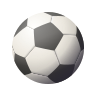
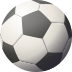
Cropped ball texture, added hitting ball on click but now it only gives it vertical velocity

diff --git a/src/main/resources/static/js/game.js b/src/main/resources/static/js/game.js
@@ -1,53 +1,79 @@
 const canvas = document.getElementById("GameCanvas");
 const ctx = canvas.getContext("2d");
-let ballX = 227;
-let ballY = 200;
-let gravity = 0.1;
-let ballVy = 0;
-let ballVx = 2;
-let bounceFactor = 0.9;
 
-canvas.width = 550;
-canvas.height = 900;
-
+canvas.width = parseInt(getComputedStyle(canvas).width);
+canvas.height = parseInt(getComputedStyle(canvas).height);
 
 const img = new Image();
 img.src = "../assets/ball.png";
 
-img.onload = function() {
-    animate();
+let ballSize = canvas.height / 8;
+let ballRotation = 0;
+let ballX = canvas.width / 2 - ballSize / 2;
+let ballY = canvas.height / 2 - ballSize / 2;
+let gravity = 0.2;
+let ballVy = 0;
+let ballVx = 0;
+let bounceFactor = 0.9;
+let fractionFactor = 0.98;
+let hitFactor = bounceFactor * gravity * 100;
+let isPlaying = false;
+
+img.onload = function () {
+    ctx.drawImage(img, ballX, ballY, ballSize, ballSize);
 };
 
+
+canvas.addEventListener("mousedown", function (event) {
+    if (!isPlaying) {
+        isPlaying = true;
+        animate();
+    }
+    checkIfBallWasClicked(event);
+});
+
 function animate() {
+    if (!isPlaying) return;
     calculatePosition();
     ctx.clearRect(0, 0, canvas.width, canvas.height);
-
-    ctx.drawImage(img, ballX, ballY);
-
+    ctx.drawImage(img, ballX, ballY, ballSize, ballSize);
     requestAnimationFrame(animate);
 }
 
 function calculatePosition() {
     ballVy += gravity;
+    ballVy *= fractionFactor;
     ballY += ballVy;
-
     ballX += ballVx;
+    ballRotation = ballVy / 10000;
 
-
-    if (ballY >= 804) {
-        ballY = 804;
+    if (ballY >= canvas.height - ballSize) {
+        ballY = canvas.height - ballSize;
         ballVy *= -bounceFactor;
     }
-
-
+    if (ballY <= 0) {
+        ballY = 0;
+        ballVy *= -bounceFactor;
+    }
     if (ballX <= 0) {
         ballX = 0;
         ballVx *= -bounceFactor;
     }
-
-
-    if (ballX >= 448) {
-        ballX = 448;
+    if (ballX >= canvas.width - ballSize) {
+        ballX = canvas.width - ballSize;
         ballVx *= -bounceFactor;
+    }
+}
+
+function checkIfBallWasClicked(event) {
+    const rect = canvas.getBoundingClientRect();
+    const x = event.clientX - rect.left;
+    const y = event.clientY - rect.top;
+    if (x > ballX && x < ballX + ballSize && y > ballY && y < ballY + ballSize) {
+        if (ballVy < 0) {
+            ballVy *= -1;
+        } else {
+            ballVy -= hitFactor;
+        }
     }
 }

diff --git a/src/main/resources/static/css/style.css b/src/main/resources/static/css/style.css
@@ -1,7 +1,7 @@
 #GameCanvas {
     background-color: #aaa6a4;
-    width: 550px;
-    height: 900px;
+    width: 28vw;
+    height: 92vh;
     display: block;
     margin: auto;
     border-radius: 1%;
